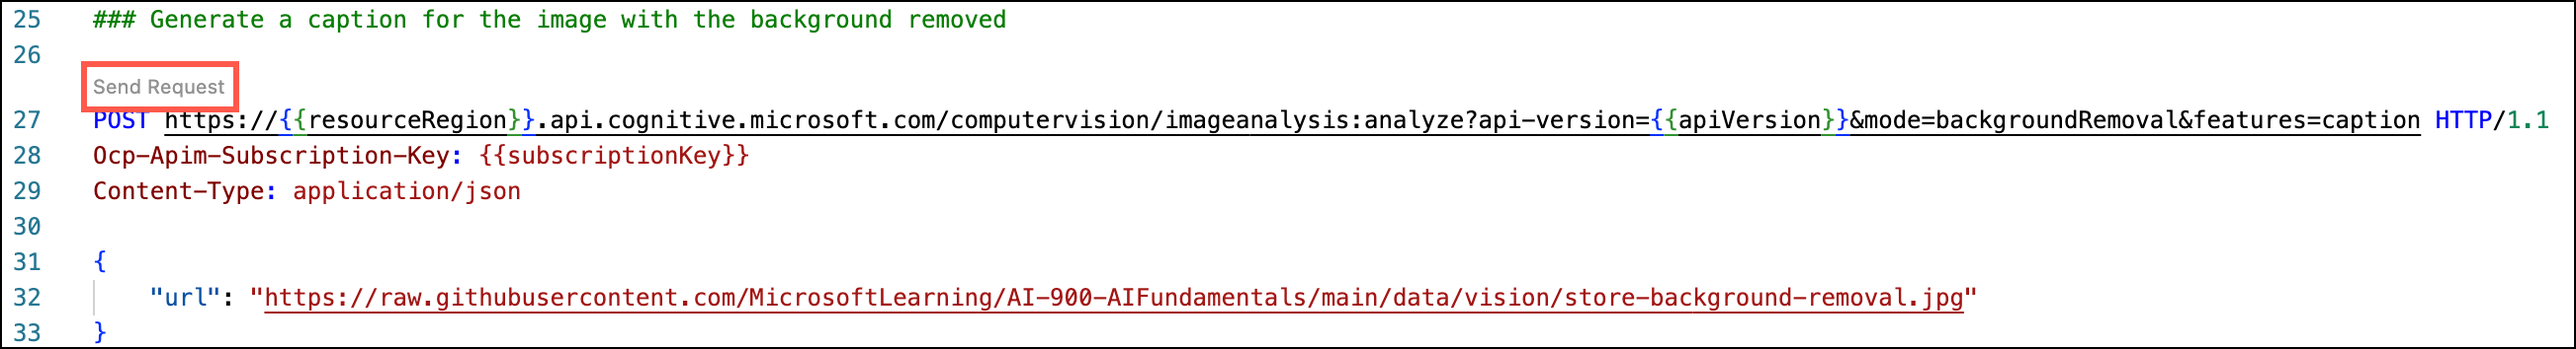
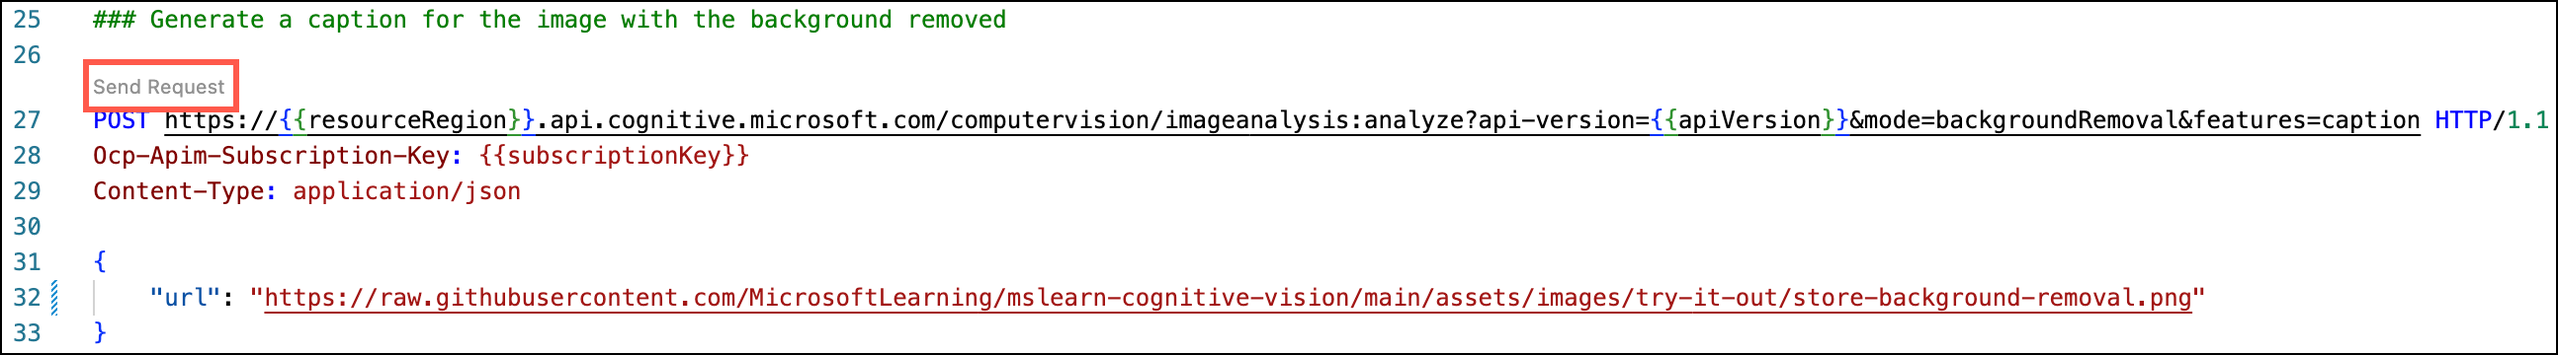
Updating links to images and assets

diff --git a/instructions/05-exercise-explore-image-analysis.md b/instructions/05-exercise-explore-image-analysis.md
@@ -90,9 +90,7 @@ Before moving on to trying out the Image Analysis 4.0 features from Vision Studi
 
 You will use several images for the exercises below, which you must retrieve from a local folder. In this task, you will download a zip file from a GitHub repository and unzip it to a local directory.
 
-1. Download the zip file containing sample images from here: <https://github.com/kylebunting/ms-learn-vision/blob/main/assets/images.zip?raw=true>
-
-    TODO: Add the link to the zip file in the final GitHub repo.
+1. Download the zip file containing sample images from here: <https://github.com/MicrosoftLearning/mslearn-cognitive-vision/blob/main/assets/images.zip?raw=true>
 
 2. Unzip the `images.zip` file to an easily accessible location on your local machine.
 
@@ -348,20 +346,13 @@ The **Background removal** feature of Image Analysis 4.0 is useful when extracti
 
 For this task, you will use the `REST Client` extension of Visual Studio Code to make calls to the endpoint.
 
-TODO:
-
-- Update image URLs in the `image-analysis.http` file to the correct paths in GitHub.
-- Update screenshots of the `image-analysis.http` file sections once the correct image URLs have been added.
-
 1. [Download Visual Studio Code](https://code.visualstudio.com/download) if you don't already have it installed, and then start Visual Studio Code.
 
 2. In Visual Studio Code, select the Extensions icon in the left-hand toolbar, enter "REST Client" into the **Search Extensions in Marketplace** box, and then select **Install** for the **REST Client** extension.
 
     ![The Visual Studio Code extensions tab is displayed, with REST Client highlighted in the search bar and the REST Client extension highlighted in the search results. The Install button for the extension is highlighted.](../media/05-vs-code-extensions-rest-client.png)
 
-3. Download the `image-analysis.http` file from here: <https://github.com/kylebunting/ms-learn-vision/raw/main/assets/image-analysis.http>
-
-    TODO: Add the final GitHub link to the `image-analysis.http` file
+3. Download the `image-analysis.http` file from here: <https://github.com/MicrosoftLearning/mslearn-cognitive-vision/raw/main/assets/image-analysis.http>
 
     **Note**: If the file opens in the browser window, copy its raw text and paste it into a new file in Visual Studio Code named `image-analysis.http`. Alternatively, you can right-click on the page in the browser, select **Save As**, and then download the file that way. This method may require manually renaming the file to remove the `.txt` extension.
 
